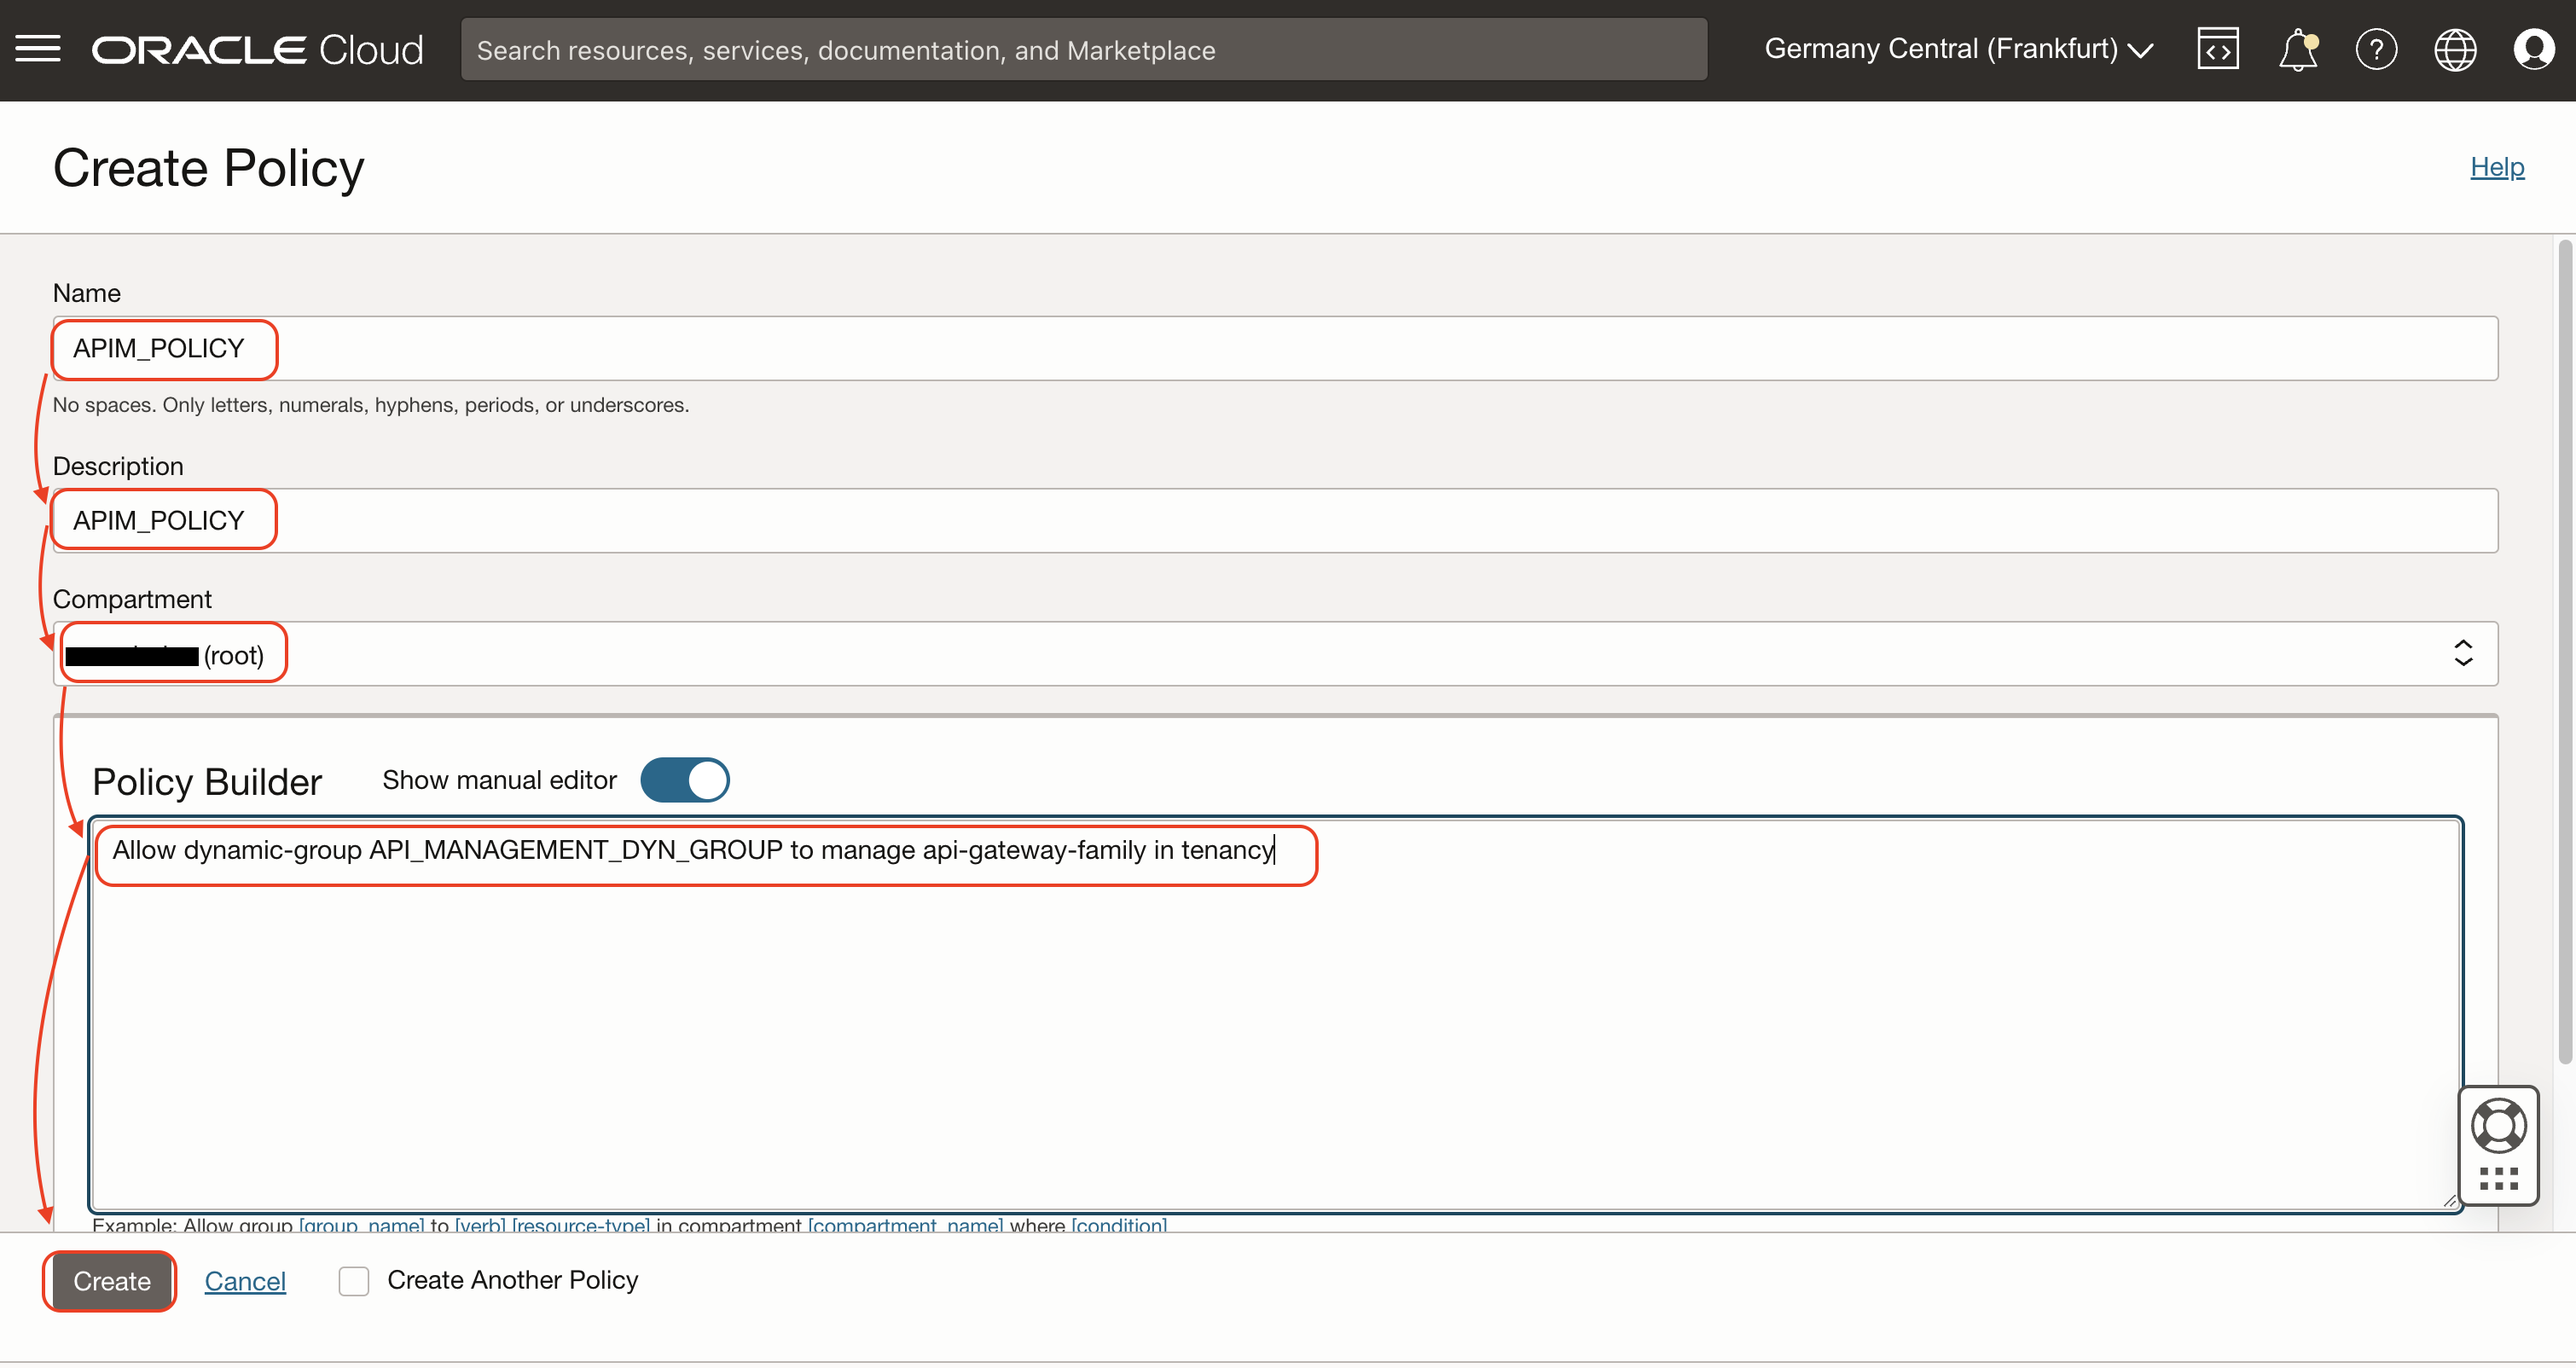
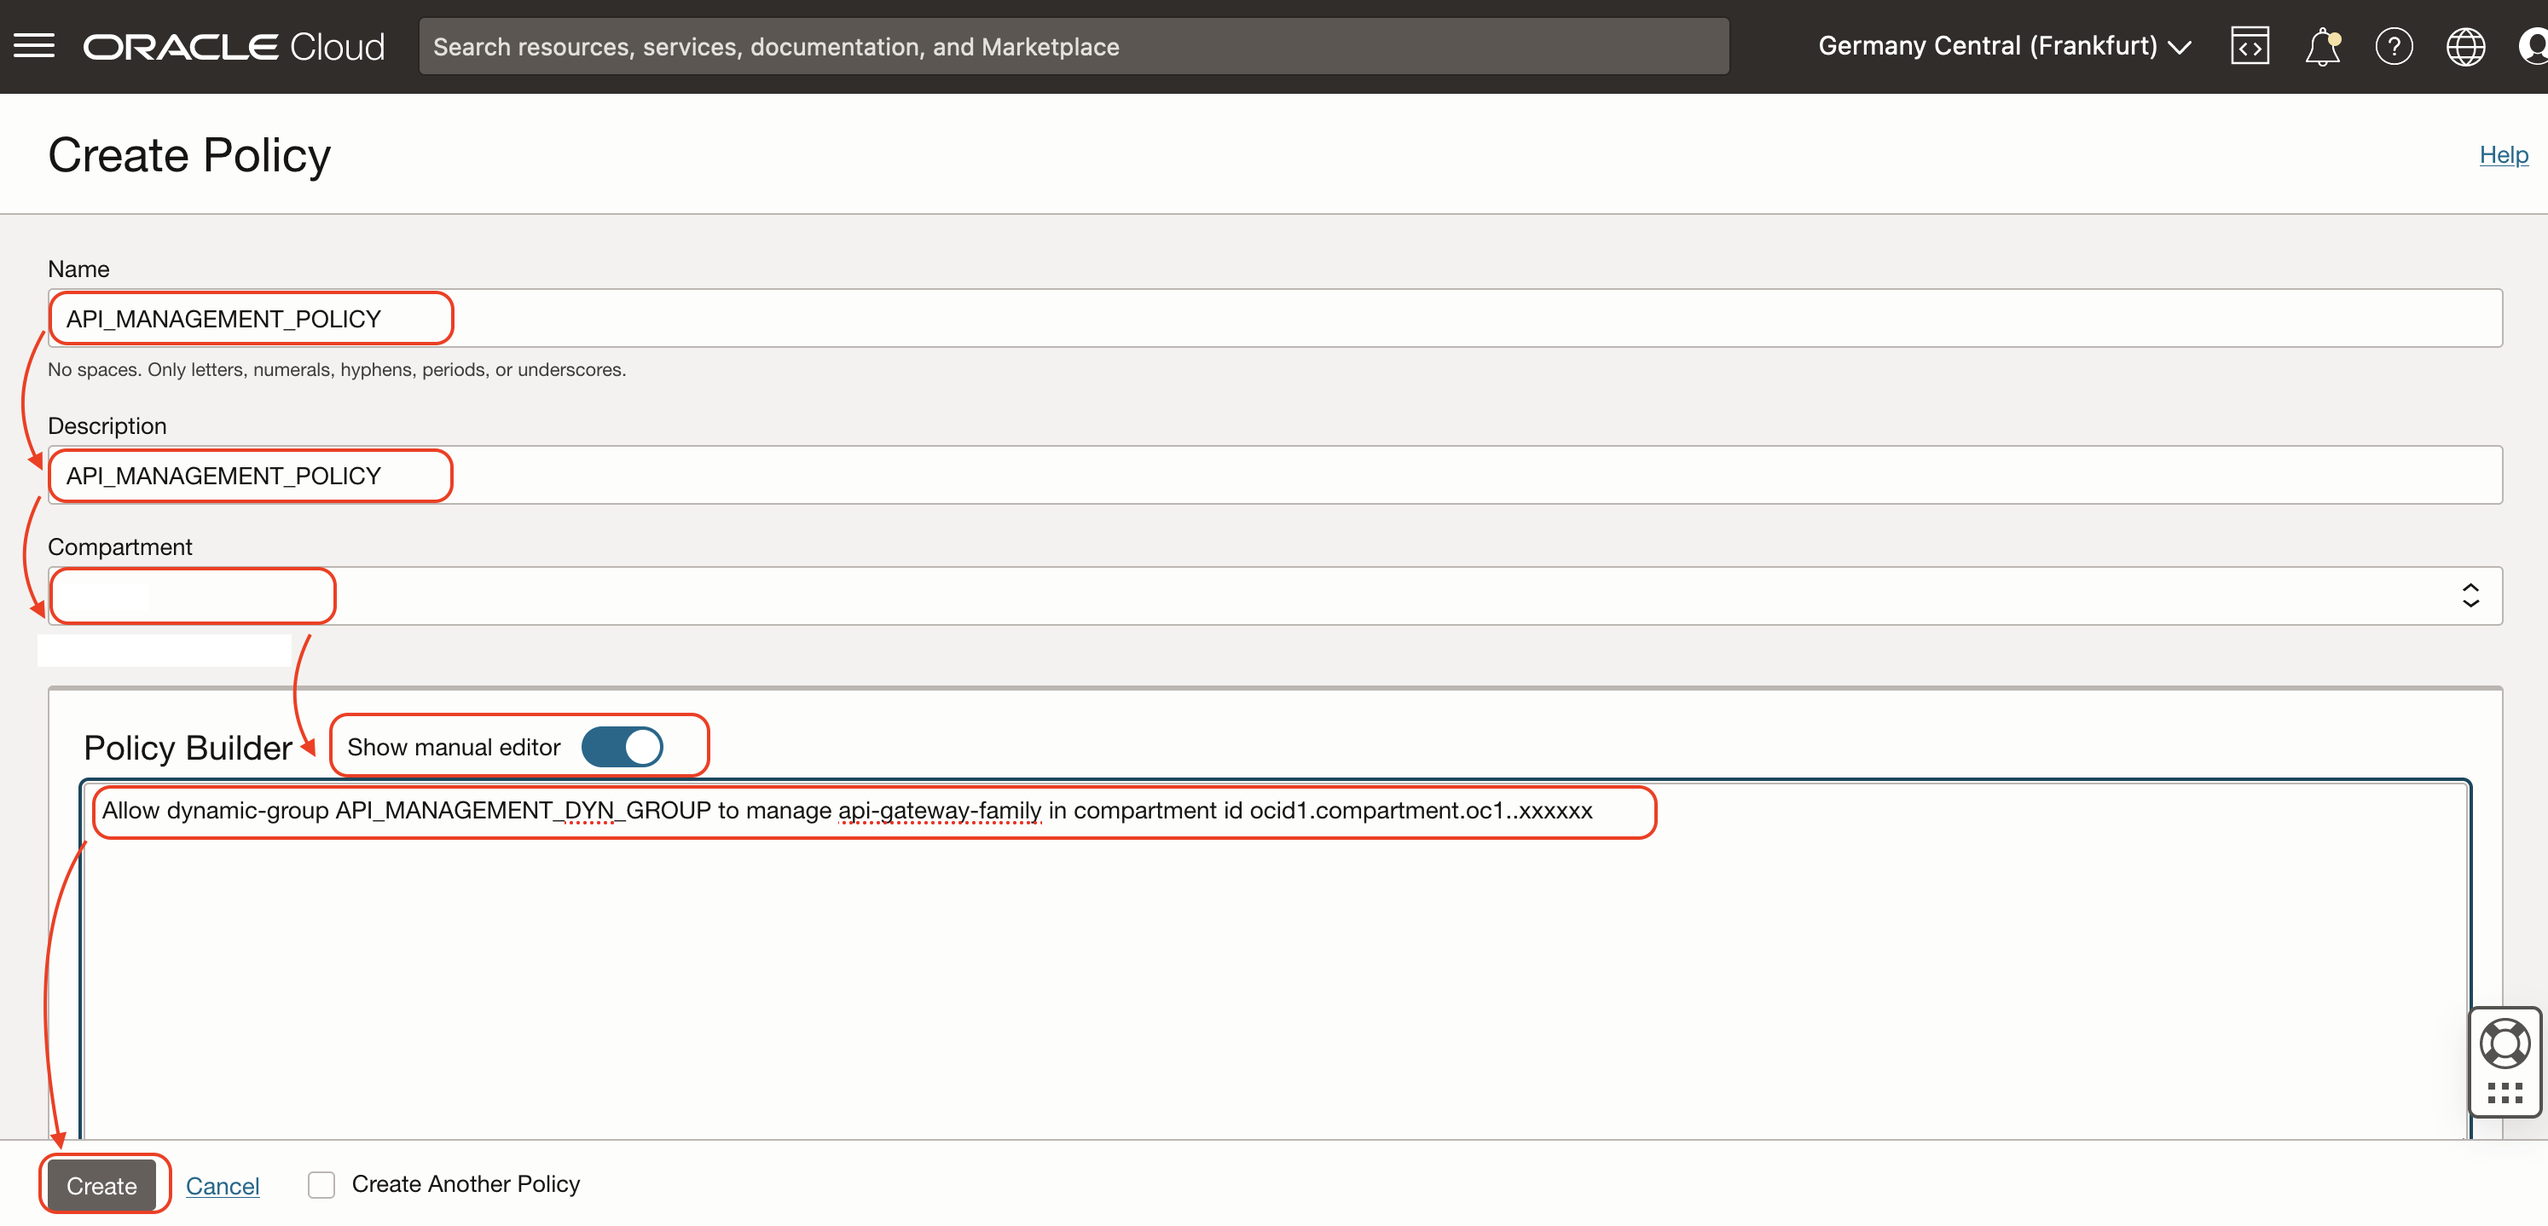
WMS 11361 (#226)
* OpenSearch - ObjectStorage V1

* Opensearch v2

* v3

* V3

* Image Alternative Texts

* V2

* V2

* v4

* V4

* Update manifest.json

* additional step

* various fixes

* various fixes

* OCI Starter

* OpenSearch New version screen user/password

* Update visual_builder.md

* 2023-03-18

* 2023-03-18

* 2023-03-18

* 2023-03-21

* APIM

* APIM

* Update test.md

* Update test.md

* APIM

* APIM

* Update test.md

* APIM

* APIM

* APIM

* APIM

* APIM

* APIM

* APIM

* APIM

* APIM

* Formatting

* Formatting

* Numbering

* Update intro.md

* Lab 2 Task 2 indentation

* -

* 2023-06-05

* 2023-06-05

* 2023-06-05

* 2023-06-05

* 2023-06-05

* 2023-06-06

* 2023-06-06

* 2023-06-12

* 2023-06-12

* 2023-07-31

* 2023-08-01

* 2023-08-01

---------

diff --git a/oci-api-management/installation/installation.md b/oci-api-management/installation/installation.md
@@ -12,11 +12,13 @@ Estimated time: 20 min
 
 ### Prerequisites
 
-- Open the Oracle Cloud Shell and clone this repository on your laptop first.
+- Download the source code of the project:
 
-    ```
-    <copy>git clone https://github.com/mgueury/oci-api-portal.git</copy>
-    ```
+    - Download and unzip the file: https://github.com/mgueury/oci-api-portal/archive/refs/heads/main.zip
+    - Or clone the git repository
+        ```
+        <copy>git clone https://github.com/mgueury/oci-api-portal.git</copy>
+        ```
 
 - Create a file on your Laptop to take your notes
 
@@ -43,7 +45,27 @@ Estimated time: 20 min
     </copy>
     ````
 
-## Task 1: Create an Autonomous database
+## Task 1: Create a Compartment
+
+The compartment will be used to contains all the components of the lab.
+
+You can
+- Use an existing compartment to run the lab. 
+- Or create a new one.
+
+To create a new compartment:
+1. Go the menu
+2. Identity & Security
+3. Choose Compartment
+    ![Menu Compartment](images/apim-compartment1.png =40%x*)
+4. Click ***Create Compartment***
+5. Give a name: ***oci-starter***
+6. Then again: ***Create Compartment***
+    ![Create Compartment](images/apim-compartment2.png =40%x*)
+7. After creating the compartment, copy the OCID in your text editor. ***##COMPARTMENT\_OCID##***. We will need it later.
+    ![Details Compartment](images/apim-compartment3.png)
+
+## Task 2: Create an Autonomous database
 
 First, let's create an Autonomous database.
 
@@ -53,11 +75,11 @@ First, let's create an Autonomous database.
         ![ATP1](images/apim-atp.png)
 
 2. Click *Create Autonomous Database*
-    - Compartment : *Your Favorite Compartment*
+    - Compartment : *Your Favorite Compartment* 
     - Display Name: *APIDB*
     - Database Name: *APIDB* 
     - Workload: *Transaction Processing*
-    - Deployment: *Shared Infrastructure*
+    - Deployment: *Serverless* (Shared Infrastructure)
     - Password: ex: *LiveLab\_\_123* (Take note of it: ##DB\_PASSWORD##)
     - Network: Keep *Secure Access from Everywhere*
     - Licence: *BYOL or Licence Included*
@@ -69,18 +91,18 @@ First, let's create an Autonomous database.
 
         ![ATP2](images/apim-atp3.png)
 
-## Task 2: Create the Database User
+## Task 3: Create the Database User
 
 1. Go to the SQL interface
     In the page of the Autonomous Database,
-    - Click on *Database Actions*
+    - Click on *Database Actions* / *View all database Actions*
     - If you get a prompt asking for an user/password, enter ADMIN/##DB\_PASSWORD##
     - Then *SQL*
 
         ![Database Actions](images/apim-sql0.png)
 
 2. Run the following SQL to create the user API.
-    - Replace the password in the schema creation to your own (to make it easy, let's use the same than ADMIN ##DB_PASSWORD##) 
+    - Replace the password in the schema creation to your own (to make it easy, let's use the same ADMIN user password by reusing ##DB_PASSWORD##) 
 
         ```
         <copy>
@@ -115,7 +137,7 @@ First, let's create an Autonomous database.
 
         ![APEX Installation](images/apim-sql1.png)
 
-## Task 3: Create a Dynamic Group and Policy
+## Task 4: Create a Dynamic Group and Policy
 
 Here I assume that the tenant is using the new Identity Domains. If it is not the case, the Dynamic group, Policy are about at the same place in the menu.
 
@@ -127,7 +149,7 @@ Here I assume that the tenant is using the new Identity Domains. If it is not th
     - Click the button *Create Dynamic Group*
     - Name *API\_MANAGEMENT\_DYN\_GROUP*
     - Description *API\_MANAGEMENT\_DYN\_GROUP*
-    - In the Rule, you need to use the DB_OCID from the notes. 
+    - In the Rule, you need to use the ##DB\_OCID## from the notes. 
         ```
         <copy>
         resource.id = '##DB_OCID##'
@@ -141,27 +163,31 @@ Here I assume that the tenant is using the new Identity Domains. If it is not th
     - Click *Create Policy*
     - Name *API\_MANAGEMENT\_POLICY*
     - Description *API\_MANAGEMENT\_POLICY*
-    - Compartment: Choose the *root* compartment
+    - Compartment: Choose your compartment
     - Policy, click *Show manual editor*
+    - You need the ##COMPARTMENT\_OCID## from the notes.
     
         ```
         <copy>
-        Allow dynamic-group API_MANAGEMENT_DYN_GROUP to manage api-gateway-family in tenancy
+        Allow dynamic-group API_MANAGEMENT_DYN_GROUP to manage api-gateway-family in compartment id ##COMPARTMENT_OCID##
         </copy>
         ```
 
 
     ![Policies](images/apim-policy.png)
 
-## Task 4: Install the APEX program
+## Task 5: Install the APEX program
 
 Back to page of the Autonomous Database,
-1. Go to APEX. Click again on *Database Actions*
+1. Go to APEX. Click again on *Database Actions* / *View all database Actions*
 
     ![APEX Installation](images/apim-apex0.png)
 
     - Click *APEX*
 2. Note the URL of APEX, we need the Apex Host Name (##APEX_HOST##) later in the lab (Ex: abcdefghijk-db123.adb.eu-frankfurt-1.oraclecloudapps.com) 
+
+    ![APEX URL](images/apim-apex-url.png)
+
 3. In Administration Service, enter the DB password (##DB_PASSWORD##)
     - Click *Sign In to Administration*
 
@@ -184,6 +210,7 @@ Back to page of the Autonomous Database,
         ![APEX Create Workspace](images/apim-apex4.png)
 
     - Click on your top right icon. Then *Sign-out*
+    - Click *Return to Sign in page*
 
 4. In the APEX login page
     - Workspace: *API*
@@ -196,7 +223,8 @@ Back to page of the Autonomous Database,
  
     ![APEX Installation](images/apim-apex5.png)
 
-    - Go in the files that you have downloaded from Git
+    - Go in the files that you have downloaded from Github
+    - Uncompress the .zip if not done yet.
     - Choose *apex/apex_apim.sql*
     - Click *Next*
     - Click *Next*
@@ -207,7 +235,7 @@ Back to page of the Autonomous Database,
 We have now a running API Management Portal but it is empty.
 - Click *Run Application*
 
-## Task 5: Test the empty installation
+## Task 6: Test the empty installation
 
 We have now a running API Management Portal but it is empty.
 1. Login *API* / Password - See ##DB_PASSWORD##

diff --git a/oci-api-management/existing-apis/existing-apis.md b/oci-api-management/existing-apis/existing-apis.md
@@ -1,5 +1,5 @@
 
-# Lab 2: Add Existing APIs
+# Lab 3: Add Existing APIs
 
 ## Introduction
 
@@ -42,7 +42,7 @@ Estimated time: 20 min
 2. Install Samples
     - In the Oracle Integration menu, choose *Integrations* / *Integrations* again
     - Remove the filter with your username
-    - You will see some preinstalled sample. 
+    - You will see some preinstalled samples. 
     
         ![Oracle Integration - Samples](images/apim-oic2.png)
 
@@ -55,7 +55,7 @@ Estimated time: 20 min
 3. Note the host name of OIC from the URL (##OIC\_HOST##): ex: oic-apim-xxxxx-fr.integration.ocp.oraclecloud.com
 4. Go back the APEX API Portal (##PORTAL\_URL##)
     - Click on the menu 
-    - Then *Source*
+    - Then *Discover Source*
 5. Click *Oracle Integration Credentials* 
     - For OCI Username, enter ##USERNAME##
     - For Password, enter ##PASSWORD##
@@ -67,13 +67,13 @@ It will allow the database to call the OIC URLs
 ### 3. Create OIC Source
 
 1. Still in the Source screen.
-    - Click *Create*
-    - Source Type *Oracle Integration*
+    - Click *Create Source*
+    - Source Type *Oracle Integration 2*
     - Oracle Integration Host: ##OIC\_HOST##
     - Click *Create*
         ![Oracle Integration - Credentials](images/apim-source-oic.png)
 
-## Task 3: Add existing API from API Gateway
+## Task 3: (optional) Add existing API from API Gateway
 
 1. Get APIW OCID
     - Please find back the Compartment OCID that was used to create the API Gateway in Lab 2 (Cloud Native). (##COMPARTMENT\_OCID##)
@@ -82,7 +82,7 @@ It will allow the database to call the OIC URLs
     - Then *Discover Source*
 3.  Create APIGW Source. 
     - Still in the Source screen.
-    - Click *Create*
+    - Click *Create Source*
     - Source Type *OCI API Gateway*
     - Compartment OCID: ##COMPARTMENT\_OCID##
     - Region: ##REGION##
@@ -148,7 +148,15 @@ It will allow the database to call the OIC URLs
 
 - The right to call OCI API could probably be improved with OCI policies instead of encoding the user ocid, ...
 
+## Known Issues
 
+- When pressing Discover All, there is an *error: ORA-40441 - JSON Syntax Error*
+    - Symptoms: When running this command, it works 
+       ```
+       curl -k -u ##USER##:##PASSWORD## https://##OIC_HOST/ic/api/integration/v1/integrations | jq .  
+       ```
+    - Work-around: Wait 2/5 mins and it works.
+   
 ## Acknowledgements
 
 - **Authors**

diff --git a/oci-api-management/new-apis/new-apis.md b/oci-api-management/new-apis/new-apis.md
@@ -19,6 +19,7 @@ Estimated time: 20 min
 1. Go to Oracle Cloud Home page
 2. Go to Cloud Editor.
 3. When the editor is started, open a terminal
+    ![Cloud Shell](images/apim-cloudeditor-terminal.png)
 4. Clone the git repository
     ```
     <copy>
@@ -28,11 +29,7 @@ Estimated time: 20 min
 5. Edit the file oci-api-portal/cloud-native-sample/group_common/env.sh
     ![Cloud Shell](images/apim-cloudeditor.png)
 6. In the file group_common/env.sh, you have to set: 
-    - TF\_VAR\_compartment\_ocid in a compartment where the infrastructure components will be created. If no compartment is given and you are Admin of the OCI Tenant, an compartment oci-starter will be created. To get your compartment:
-        - Go to OCI Menu/Identity & Security/Compartments.
-        - Choose your compartment 
-        - And copy the OCID
-        - Take a note ##COMPARTMENT_OCID##
+    - TF\_VAR\_compartment\_ocid to your ##COMPARTMENT_OCID## (see Notes)
     - APIM\_HOST to the APEX Host Name: ##APEX\_HOST##
 7. Then run the build. This will take about 15 mins. 
     ```
@@ -85,11 +82,7 @@ When the Task 1 build is done.
 5. Edit the file oci-api-portal/cloud-native-k8s/group_common/env.sh
     ![Cloud Shell](images/apim-cloudeditor.png)
 6. In the file group_common/env.sh, you have to set: 
-    - TF\_VAR\_compartment\_ocid in a compartment where the infrastructure components will be created. If no compartment is given and you are Admin of the OCI Tenant, an compartment oci-starter will be created. To get your compartment:
-        - Go to OCI Menu/Identity & Security/Compartments.
-        - Choose your compartment 
-        - And copy the OCID
-        - Take a note ##COMPARTMENT_OCID##
+    - TF\_VAR\_compartment\_ocid to your ##COMPARTMENT_OCID## (see Notes)
     - APIM\_HOST to the APEX Host Name: ##APEX\_HOST##
     - TF\_VAR\_auth\_token to the your OCI Auth token (an Auth Token for your user profile)
         - If you have no such token, please generate one with this script
